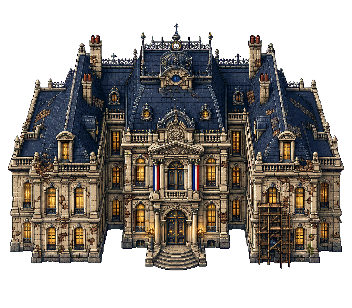
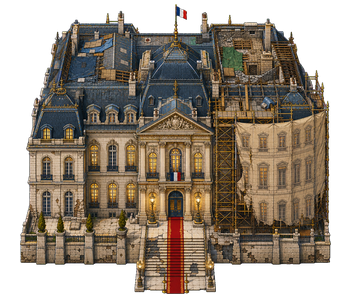
Rebuild authority facades around civic satire

diff --git a/scripts/normalize_authority_facade.py b/scripts/normalize_authority_facade.py
@@ -1,0 +1,79 @@
+#!/usr/bin/env python3
+"""Normalize a generated authority facade for the overworld runtime contract."""
+
+from __future__ import annotations
+
+import argparse
+from pathlib import Path
+
+from PIL import Image
+
+
+ALPHA_CUTOFF = 8
+CANVAS_WIDTH = 352
+EDGE_PADDING = 4
+
+
+def _clear_key_artifacts(image: Image.Image) -> Image.Image:
+    """Remove residual magenta pixels without touching the intended palette."""
+    cleaned = image.convert("RGBA")
+    pixels = []
+    for red, green, blue, alpha in cleaned.getdata():
+        is_key_spill = (
+            alpha > 0
+            and red > 170
+            and blue > 155
+            and green < 100
+            and abs(red - blue) < 80
+        )
+        if alpha <= ALPHA_CUTOFF or is_key_spill:
+            pixels.append((0, 0, 0, 0))
+        else:
+            pixels.append((red, green, blue, alpha))
+    cleaned.putdata(pixels)
+    return cleaned
+
+
+def normalize(source: Path, destination: Path, canvas_height: int) -> None:
+    image = _clear_key_artifacts(Image.open(source))
+    alpha_mask = image.getchannel("A").point(
+        lambda value: 255 if value > ALPHA_CUTOFF else 0
+    )
+    bounds = alpha_mask.getbbox()
+    if bounds is None:
+        raise ValueError(f"{source} contains no visible pixels")
+
+    subject = image.crop(bounds)
+    max_width = CANVAS_WIDTH - EDGE_PADDING * 2
+    max_height = canvas_height - EDGE_PADDING * 2
+    scale = min(max_width / subject.width, max_height / subject.height)
+    target_size = (
+        max(1, round(subject.width * scale)),
+        max(1, round(subject.height * scale)),
+    )
+    subject = subject.resize(target_size, Image.Resampling.LANCZOS)
+
+    canvas = Image.new("RGBA", (CANVAS_WIDTH, canvas_height), (0, 0, 0, 0))
+    x = (CANVAS_WIDTH - subject.width) // 2
+    y = canvas_height - EDGE_PADDING - subject.height
+    canvas.alpha_composite(subject, (x, y))
+
+    destination.parent.mkdir(parents=True, exist_ok=True)
+    canvas.save(destination, "PNG", optimize=True)
+    print(
+        f"{source.name}: crop={bounds} content={target_size} "
+        f"canvas={CANVAS_WIDTH}x{canvas_height} offset=({x},{y})"
+    )
+
+
+def main() -> None:
+    parser = argparse.ArgumentParser()
+    parser.add_argument("source", type=Path)
+    parser.add_argument("destination", type=Path)
+    parser.add_argument("--height", type=int, required=True)
+    args = parser.parse_args()
+    normalize(args.source, args.destination, args.height)
+
+
+if __name__ == "__main__":
+    main()

diff --git a/docs/AUTHORITY_FACADE_ART_DIRECTION.md b/docs/AUTHORITY_FACADE_ART_DIRECTION.md
@@ -1,31 +1,41 @@
 # Authority facade art direction
 
-The six required-signature exteriors are production hero assets rather than enlarged roof icons. They share one runtime contract:
+The six required-signature exteriors are character portraits expressed through architecture. They depict a recognizable contemporary civic order in managed decline: every authority keeps the system looking functional by denying failure in a different way.
+
+## Narrative contract
+
+| Authority | Official claim | Architectural contradiction |
+| --- | --- | --- |
+| Trump | Everything is magnificent. | Gold, staging, and media lighting cover structural neglect. |
+| Musk | The future is almost ready. | A contemporary factory remains in permanent-beta construction. |
+| Ursula | The procedure is transparent. | Glass entrances multiply until access becomes impossible. |
+| Putin | Everything is under control. | A ceremonial residence has been consumed by wartime defenses. |
+| Lagarde | The situation is stable. | Calm and luxury upstairs depend on moving consequences downstairs. |
+| Macron | The grandeur remains intact. | An expensive official facade conceals unresolved decay. |
+
+The satire must survive without dialogue, signage, or character portraits. At gameplay scale, each building needs one large readable contradiction rather than many tiny jokes.
+
+## Shared runtime contract
 
 - elevated three-quarter frontal/top-down RPG perspective;
-- modern high-detail pixel art with coherent clusters and a limited palette;
-- a strong, symmetrical silhouette at 352 px runtime width;
-- roof visible from above and a readable entrance at the exact bottom center;
+- modern high-detail pixel art with coherent clusters and a restrained material palette;
+- one complete freestanding contemporary building with a readable entrance at the exact bottom center;
+- strong silhouette at 352 px runtime width;
 - upper-left key light with practical lights contained inside the building;
-- transparent background, no cast shadow, text, logo, people, vehicles, or detached scenery.
+- transparent background with no baked cast shadow, people, vehicles, readable text, logos, watermark, or detached scenery;
+- paired canvas heights by district row: 330 px top, 320 px middle, 298 px bottom.
 
-## Generation prompt set
+## Production briefs
 
-The assets were generated with the built-in image generation tool. Trump established the visual reference; the other five prompts used that image strictly as the style, angle, pixel-density, lighting, and silhouette-readability reference.
+- **Trump — spectacle as maintenance:** White House massing fused with a luxury resort and casino entrance. An immaculate gold-and-ivory center is flanked by gold-wrapped scaffold columns, roof tarps, mismatched repairs, overworked utilities, media lights, and one conspicuously renovated wing.
+- **Musk — the present in permanent beta:** a contemporary automotive factory, data center, and launch-company campus. A polished black-glass center sits between unfinished prefab wings, exposed cable trays, patchy solar arrays, and a conventional rocket stage under maintenance. Crossed structural trusses create the dominant `X` silhouette without signage.
+- **Ursula — inaccessible transparency:** a Berlaymont-inspired cobalt-glass headquarters. Nested vestibules, redundant portals, modular annexes, sealed transparent entrances, and barrier corridors turn formal openness into an architectural labyrinth.
+- **Putin — ceremonial siege:** a Kremlin-inspired red-brick residence transformed into a hardened active fortress. Anti-drone cages, armored windows, blast walls, sandbags, cameras, antennae, and bunker systems surround one absurdly pristine gilded entrance and red carpet.
+- **Lagarde — stratified stability:** a contemporary central bank divided vertically. Immaculate warm upper floors sit above patched public infrastructure, narrowed stairs, shuttered services, trapped receipts, and an elegant economic dial mechanically clamped to its calm position.
+- **Macron — grandeur as scenery:** an Élysée-inspired palace whose polished ceremonial center survives between mismatched roof repairs and an entire damaged wing hidden behind a trompe-l'oeil construction scrim on gilded scaffolding.
 
-Common prompt:
+## Generation and preparation
 
-> Create a production-ready hero building sprite for a Godot top-down 16-bit RPG overworld. Use modern high-end pixel art, a coherent 16-bit/32-bit hybrid, crisp deliberate pixel clusters, limited palette, strong readable silhouette, and enough detail to sit beside 32×32 world tiles. Show one complete freestanding building from an elevated three-quarter frontal/top-down perspective, centered with generous padding, roof visible, and a clearly usable entrance at the exact bottom center. Use a perfectly flat solid `#FF00FF` removable background. Do not include ground, scenery, people, vehicles, readable text, logos, watermark, cast shadow, contact shadow, or detached objects.
+Built-in Imagegen generated each facade from a dedicated production brief on a removable `#FF00FF` background. Putin established the new density and camera contract; the remaining images used an approved facade only as a style, angle, scale, crispness, and lighting reference, never as an architectural template.
 
-Architecture briefs:
-
-- **Trump:** neo-baroque courthouse fused with a luxury casino and presidential monument; oval mass, dark layered roof, monumental gold eagle, ivory columns, navy glass, crimson carpet.
-- **Musk:** black-glass rocket hangar fused with an automated headquarters; diamond silhouette, central stainless launch spine, graphite wings, cyan glass, vents and integrated antenna arrays.
-- **Ursula:** monumental European glass bureaucracy palace becoming a regulatory labyrinth; cobalt crescent, formal ivory block, nested wings, gold medallions and integrated turnstile forms.
-- **Putin:** brutalist Kremlin fortress fused with a hardened state bunker; red masonry, concrete core, oxidized green roofs, squat watchtowers, armored vents and sparse amber windows.
-- **Lagarde:** octagonal central-bank temple fused with a precision vault; charcoal stone, stepped roof, brass mechanisms, teal-black windows and a usable circular vault entrance.
-- **Macron:** elegant Élysée palace beginning to decay; pale neoclassical wings, midnight-blue mansard roof, restrained tricolor accents, mismatched repairs and one integrated scaffold.
-
-## Runtime preparation
-
-Generated chroma-key sources are converted to alpha with a soft matte and despill, then resized to 352 px width with nearest-neighbour sampling. Godot uses nearest texture filtering. The facade bottom edge is aligned to the existing doorway, while the procedural footprint continues to provide collision. A dark offset duplicate supplies the world-space shadow.
+The installed chroma-key helper removes flat backgrounds with a soft matte and despill. `scripts/normalize_authority_facade.py` then clears residual key pixels, crops the visible subject, downsamples it with high-quality filtering, centers it horizontally, bottom-aligns its entrance, and writes the correct 352 px runtime canvas. Godot uses nearest texture filtering. A dark offset duplicate supplies the world-space shadow, while procedural footprints remain the collision source.

diff --git a/docs/ARCHITECTURE.md b/docs/ARCHITECTURE.md
@@ -73,9 +73,9 @@ scenes/main.tscn
 - `data/day_flow.json` and `data/crowd_fragments.json` contain supporting narrative data.
 - `scenes/interiors/oval_office.tscn` is the shared interior scene instantiated for configured rooms.
 - `assets/` and `shaders/` remain presentation resources; their paths were not changed.
-- `assets/landmarks/authority_*_v2.png` contains the six runtime-sized authority facades. Their transparent lower edge is aligned to each existing exterior doorway; procedural footprint collisions remain authoritative while their old roof tiles are hidden.
+- `assets/landmarks/authority_*_v2.png` contains the six runtime-sized satirical authority facades. Their architecture is narrative: spectacle masks neglect for Trump, permanent-beta industry for Musk, inaccessible transparency for Ursula, wartime paranoia for Putin, stratified stability for Lagarde, and theatrical grandeur for Macron. Their transparent lower edge is aligned to each exterior doorway; procedural footprint collisions remain authoritative while their old roof tiles are hidden.
 - `assets/backgrounds/world_district_plate_v2.png` is a single opaque, collision-neutral ground plate matching the 2176×2048 overworld bounds. `main.gd` mounts it below the TileMap at `z=-10`; path reservations, decorations, structures, triggers, and collision remain generated runtime layers. The plate supplies the visible civic paving so the legacy floor atlas cannot reintroduce seams. If the plate cannot load, the generator falls back to corrected opaque center tiles from `field_32.png` and the original path rendering.
-- The six main compounds follow the authored plate's two-column/three-row visual grid. Their facade sprite centers land near world coordinates `x = ±528` and `y = -683 / 0 / 683`; facade-specific logical Y centers compensate for different image heights and doorway offsets. Each specification moves its facade, procedural footprint, entrance, NPC spawn, light, and generated route together; encounter code should not introduce independent world coordinates for those elements.
+- The six main compounds follow the authored plate's two-column/three-row visual grid. Their facade sprite centers land near world coordinates `x = ±528` and `y = -683 / 0 / 683`. Facades use shared row heights (330 px top, 320 px middle, 298 px bottom), so paired landmarks align predictably with their doorway rows. Each specification moves its facade, procedural footprint, entrance, NPC spawn, light, and generated route together; encounter code should not introduce independent world coordinates for those elements.
 - Trump, Musk, and Putin use facade-specific collision masks rather than their larger legacy procedural silhouettes. Each mask follows the visible lower building mass and stops before the exterior doorway; this prevents invisible collision above the replacement artwork while preserving the doorway trigger owned by `RoomManager`.
 
 ## Adding or changing behavior
